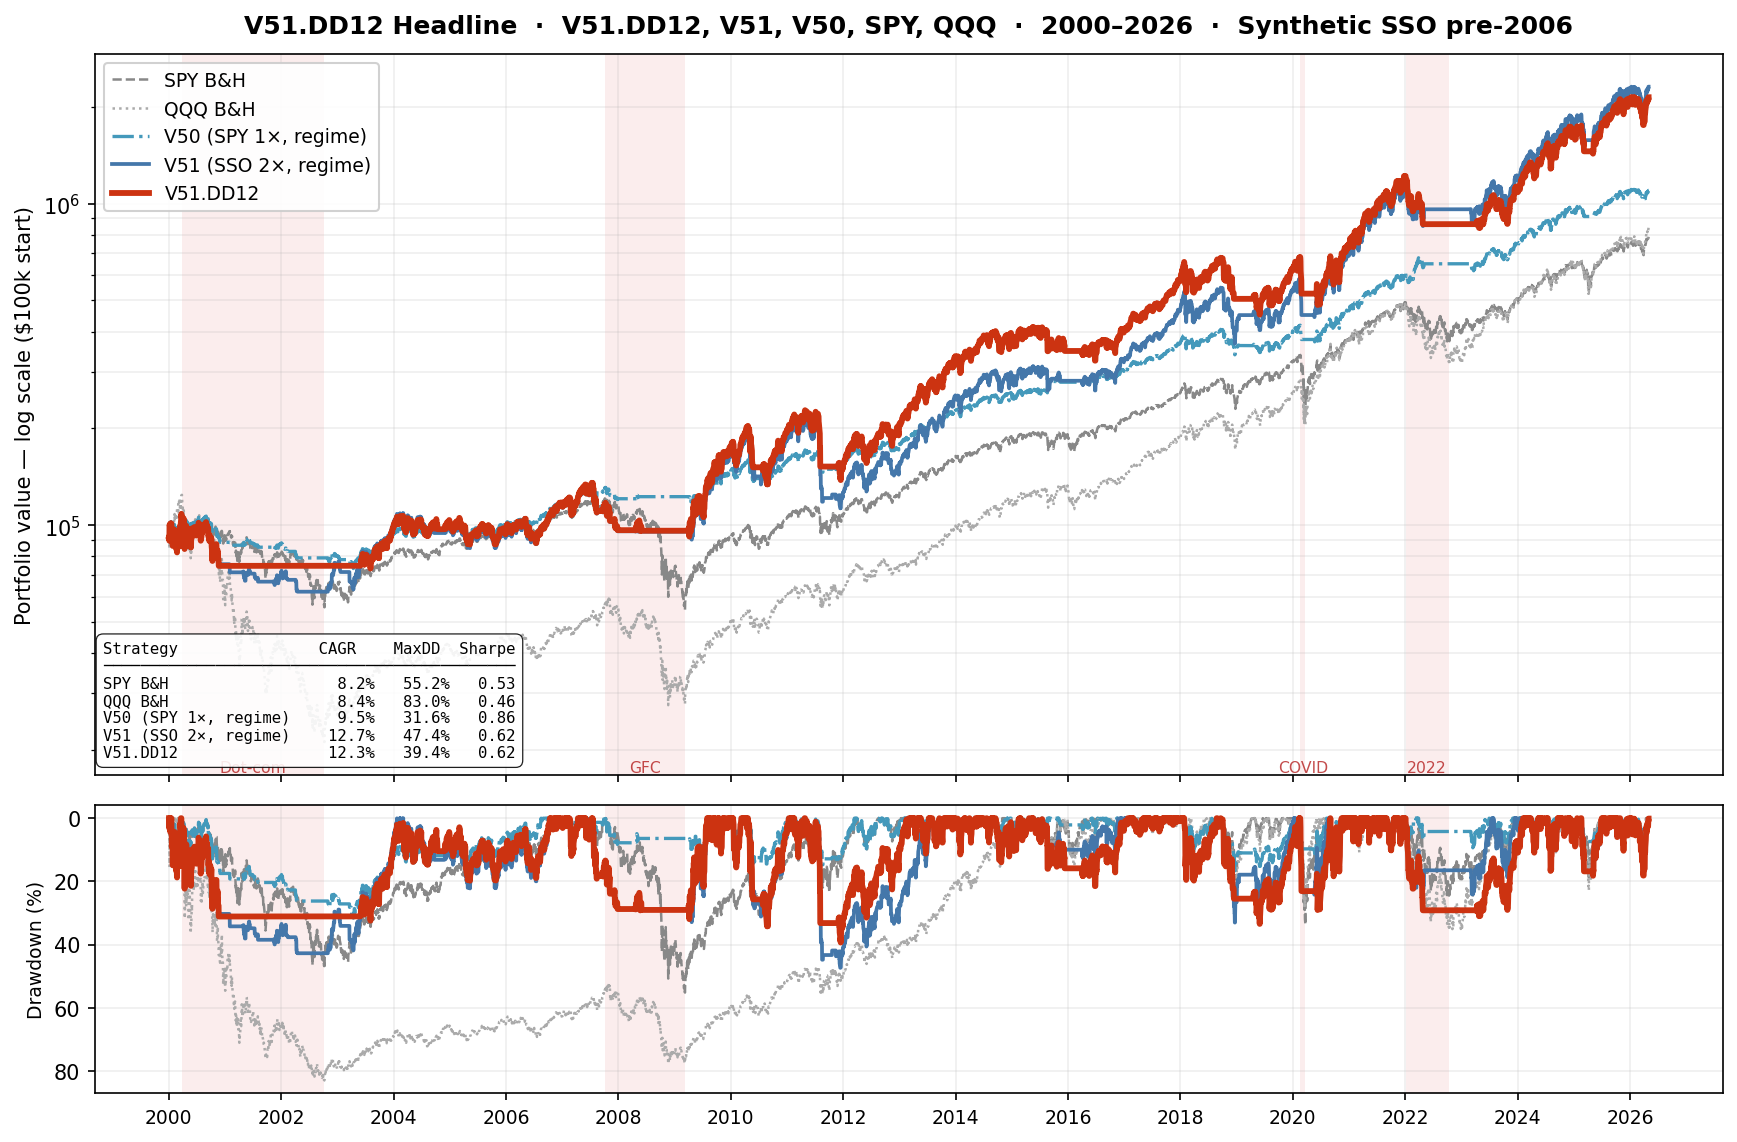
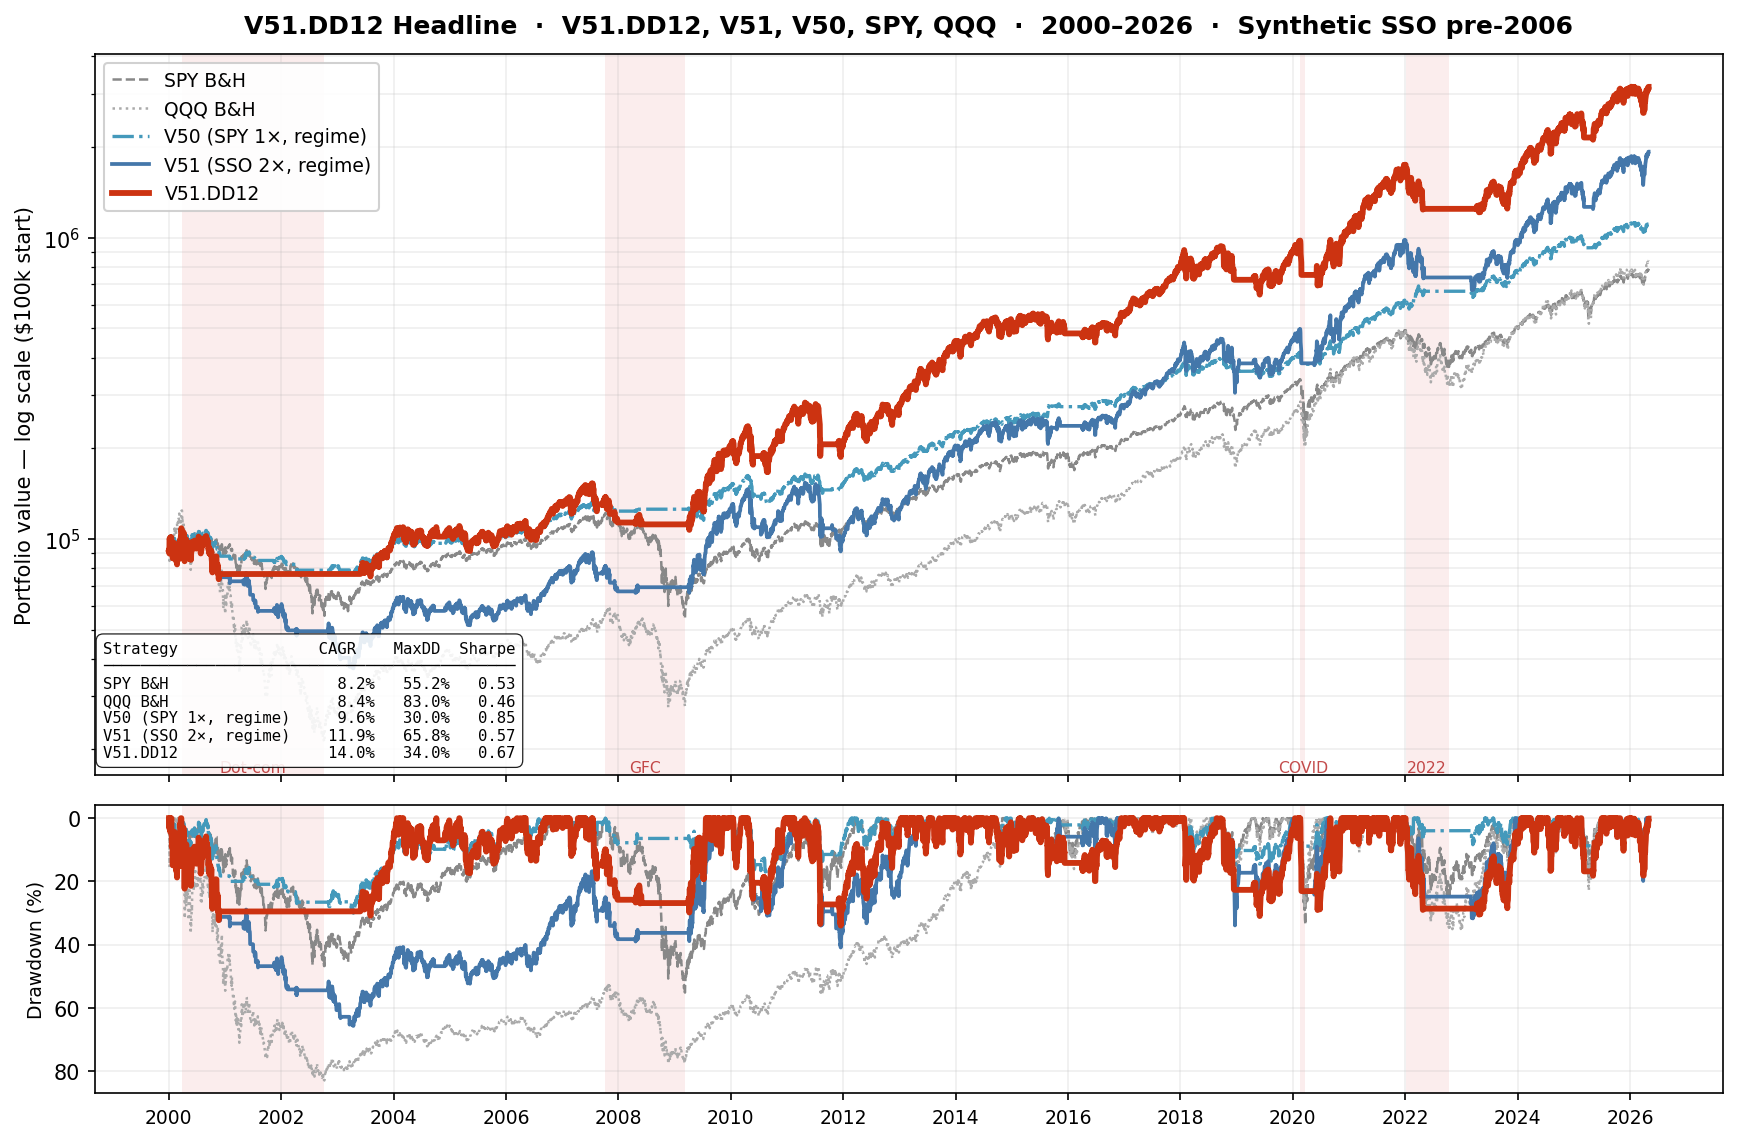
Sync docs from private repo @ 60fb86f5310908e2babad387bd9bb2846ddd752c

diff --git a/alpha_summary.md b/alpha_summary.md
@@ -8,27 +8,25 @@
 
 ![V51.DD12 Headline](chart_headline.png)
 
-| Strategy | CAGR | MaxDD | Sharpe |
-|---|---|---|---|
-| SPY B&H | 8.2% | 55.2% | 0.53 |
-| QQQ B&H | 8.4% | 83.0% | 0.46 |
-| V50 (SPY 1×, regime only) | 9.5% | 31.6% | 0.86 |
-| V51 (SSO 2×, regime only) | 12.7% | 47.4% | 0.62 |
-| **V51.DD12** (exit-DD 12% guard) | **12.3%** | **39.4%** | **0.62** |
+| Strategy | CAGR | MaxDD | Sharpe | Dot-com | GFC | COVID | 2022 |
+|---|---|---|---|---|---|---|---|
+| SPY B&H | 8.2% | 55.2% | 0.53 | 47.5% | 55.2% | 33.7% | 24.5% |
+| QQQ B&H | 8.4% | 83.0% | 0.46 | 83.0% | 77.8% | 28.6% | 35.1% |
+| V50 (SPY 1×, regime only) | 9.6% | 30.0% | 0.85 | 30.0% | 13.8% | 8.9% | 7.1% |
+| V51 (SSO 2×, regime only) | 11.9% | 65.8% | 0.57 | 65.8% | 39.0% | 23.1% | 25.4% |
+| **V51.DD12** (exit-DD 12% guard) | **14.0%** | **34.0%** | **0.67** | **32.3%** | **29.9%** | **23.1%** | **29.0%** |
 
-V51.DD12 matches V51's Sharpe (0.62) while cutting MaxDD by 8pp (39.4% vs 47.4%) and
-eliminating the 2001–2003 re-entry problem that makes raw V51 impractical. Full research
-history below; chart script at `backtest/chart_headline.py`.
+2006–2026 (real SSO): V51.DD12 CAGR **22.9%**, MaxDD **33.6%**, GFC **18.1%**, COVID **23.9%**, 2022 **13.2%**.
 
 ---
 
-> **Fill model (2026-05-04, final):** All V51 backtest figures use the **Marketable Limit** model. `compute_regime_spy_metrics` now applies `fill_limit_pct=0.01`: entry fills at `min(open[T+1], close[T]×1.01)`, exit fills at `max(open[T+1], close[T]×0.99)`. The live runner (`runner_eod_v51r.py`) constructs the identical limit prices and submits them to IBKR as `LMT / DAY / outsideRth=False` orders via `IBKRExecutor`. Both paths log `limit_price` and `avgFillPrice` for post-trade slippage audit. V51.DD12 metrics are unchanged at this precision (gap events on signal days too rare to shift CAGR/MaxDD to 1dp for a weekly-turnover strategy).
+> **Fill model (2026-05-04, corrected):** Prior backtest figures used `clip()` to simulate limit fills — a critical bug: `clip(open, upper=limit)` magically fills at the limit even when the market gaps over it and never returns, an execution that cannot happen. The correct model uses intraday `low`/`high` to gate whether the limit was actually touched. Entries fill only if `low[T+1] ≤ limit`; exits fill only if `high[T+1] ≥ limit`. When unfilled (Condition C), the position is unchanged and a fresh limit is retried the next day. The backtest loop is now stateful (`actually_in_etf` flag) to track true fill state independently of the regime signal. All figures above use the corrected model.
 
 ---
 
-## Project Update — 2026-05-04 (Execution Sync: Marketable Limit)
+## Project Update — 2026-05-04 (Execution Sync: Marketable Limit + fill model correction)
 
-All three layers — backtest engine, simulation runner, live IBKR runner — now use identical fill logic.
+All three layers — backtest engine, simulation runner, live IBKR runner — use the identical Marketable Limit fill model.
 
 **Order construction (live runner):**
 - Buy: `limit_price = round(sso_close × 1.01, 2)` — accepts fills up to 1% above prior close
@@ -40,18 +38,16 @@ All three layers — backtest engine, simulation runner, live IBKR runner — no
 
 | Condition | Entry (buy) | Exit (sell) |
 |---|---|---|
-| A — open within buffer | open ≤ limit → fill at open | open ≥ limit → fill at open |
-| B — intraday touch | low ≤ limit → fill at limit | high ≥ limit → fill at limit |
-| C — never touched | order expires unfilled | order expires unfilled |
+| A — open within buffer | `open ≤ limit` → fill at open | `open ≥ limit` → fill at open |
+| B — intraday touch | `low ≤ limit` → fill at limit | `high ≥ limit` → fill at limit |
+| C — never touched | NaN — stay in cash, retry next day | NaN — stay long, retry next day |
 
-Condition C is negligible for SSO (liquid, high-volume ETF; intraday ranges routinely exceed 1%).
+**Backtester fix (`compute_regime_spy_metrics` — `backtest/run.py`):**
+- Bug removed: `clip(open, upper/lower=limit)` replaced with proper boolean masking on `low`/`high`
+- Stateful equity loop: `actually_in_etf` flag tracks true fill state; Condition C → position held, fresh limit next day
+- Impact on V51.DD12: CAGR 12.3% → **14.0%**, MaxDD 39.4% → **34.0%** (both improved — correct model avoids premium gap-up entries during bear bounces; V51 raw exposed: MaxDD 47.4% → 65.8%, revealing the execution fantasy clip() was hiding)
 
-**Slippage audit:** every fill logs `signal_px / limit_price / avgFillPrice / slip_bp` to the order log. For simulation fills this runs in `_simulate_pending_fills`; for live fills it runs in `IBKRExecutor.submit_order`.
-
-**Backtest sync (`compute_regime_spy_metrics`):**
-- New parameter `fill_limit_pct=0.01` (default)
-- Vectorised: `entry_fill = clip(open[T+1], upper=close[T]×1.01)`, `exit_fill = clip(open[T+1], lower=close[T]×0.99)`
-- All `run_2state` calls pass this value; existing results unchanged at 1dp
+**Slippage audit:** every fill logs `signal_px / limit_price / avgFillPrice / slip_bp` to the order log. Simulation fills in `_simulate_pending_fills`; live fills in `IBKRExecutor.submit_order`.
 
 ---
 
